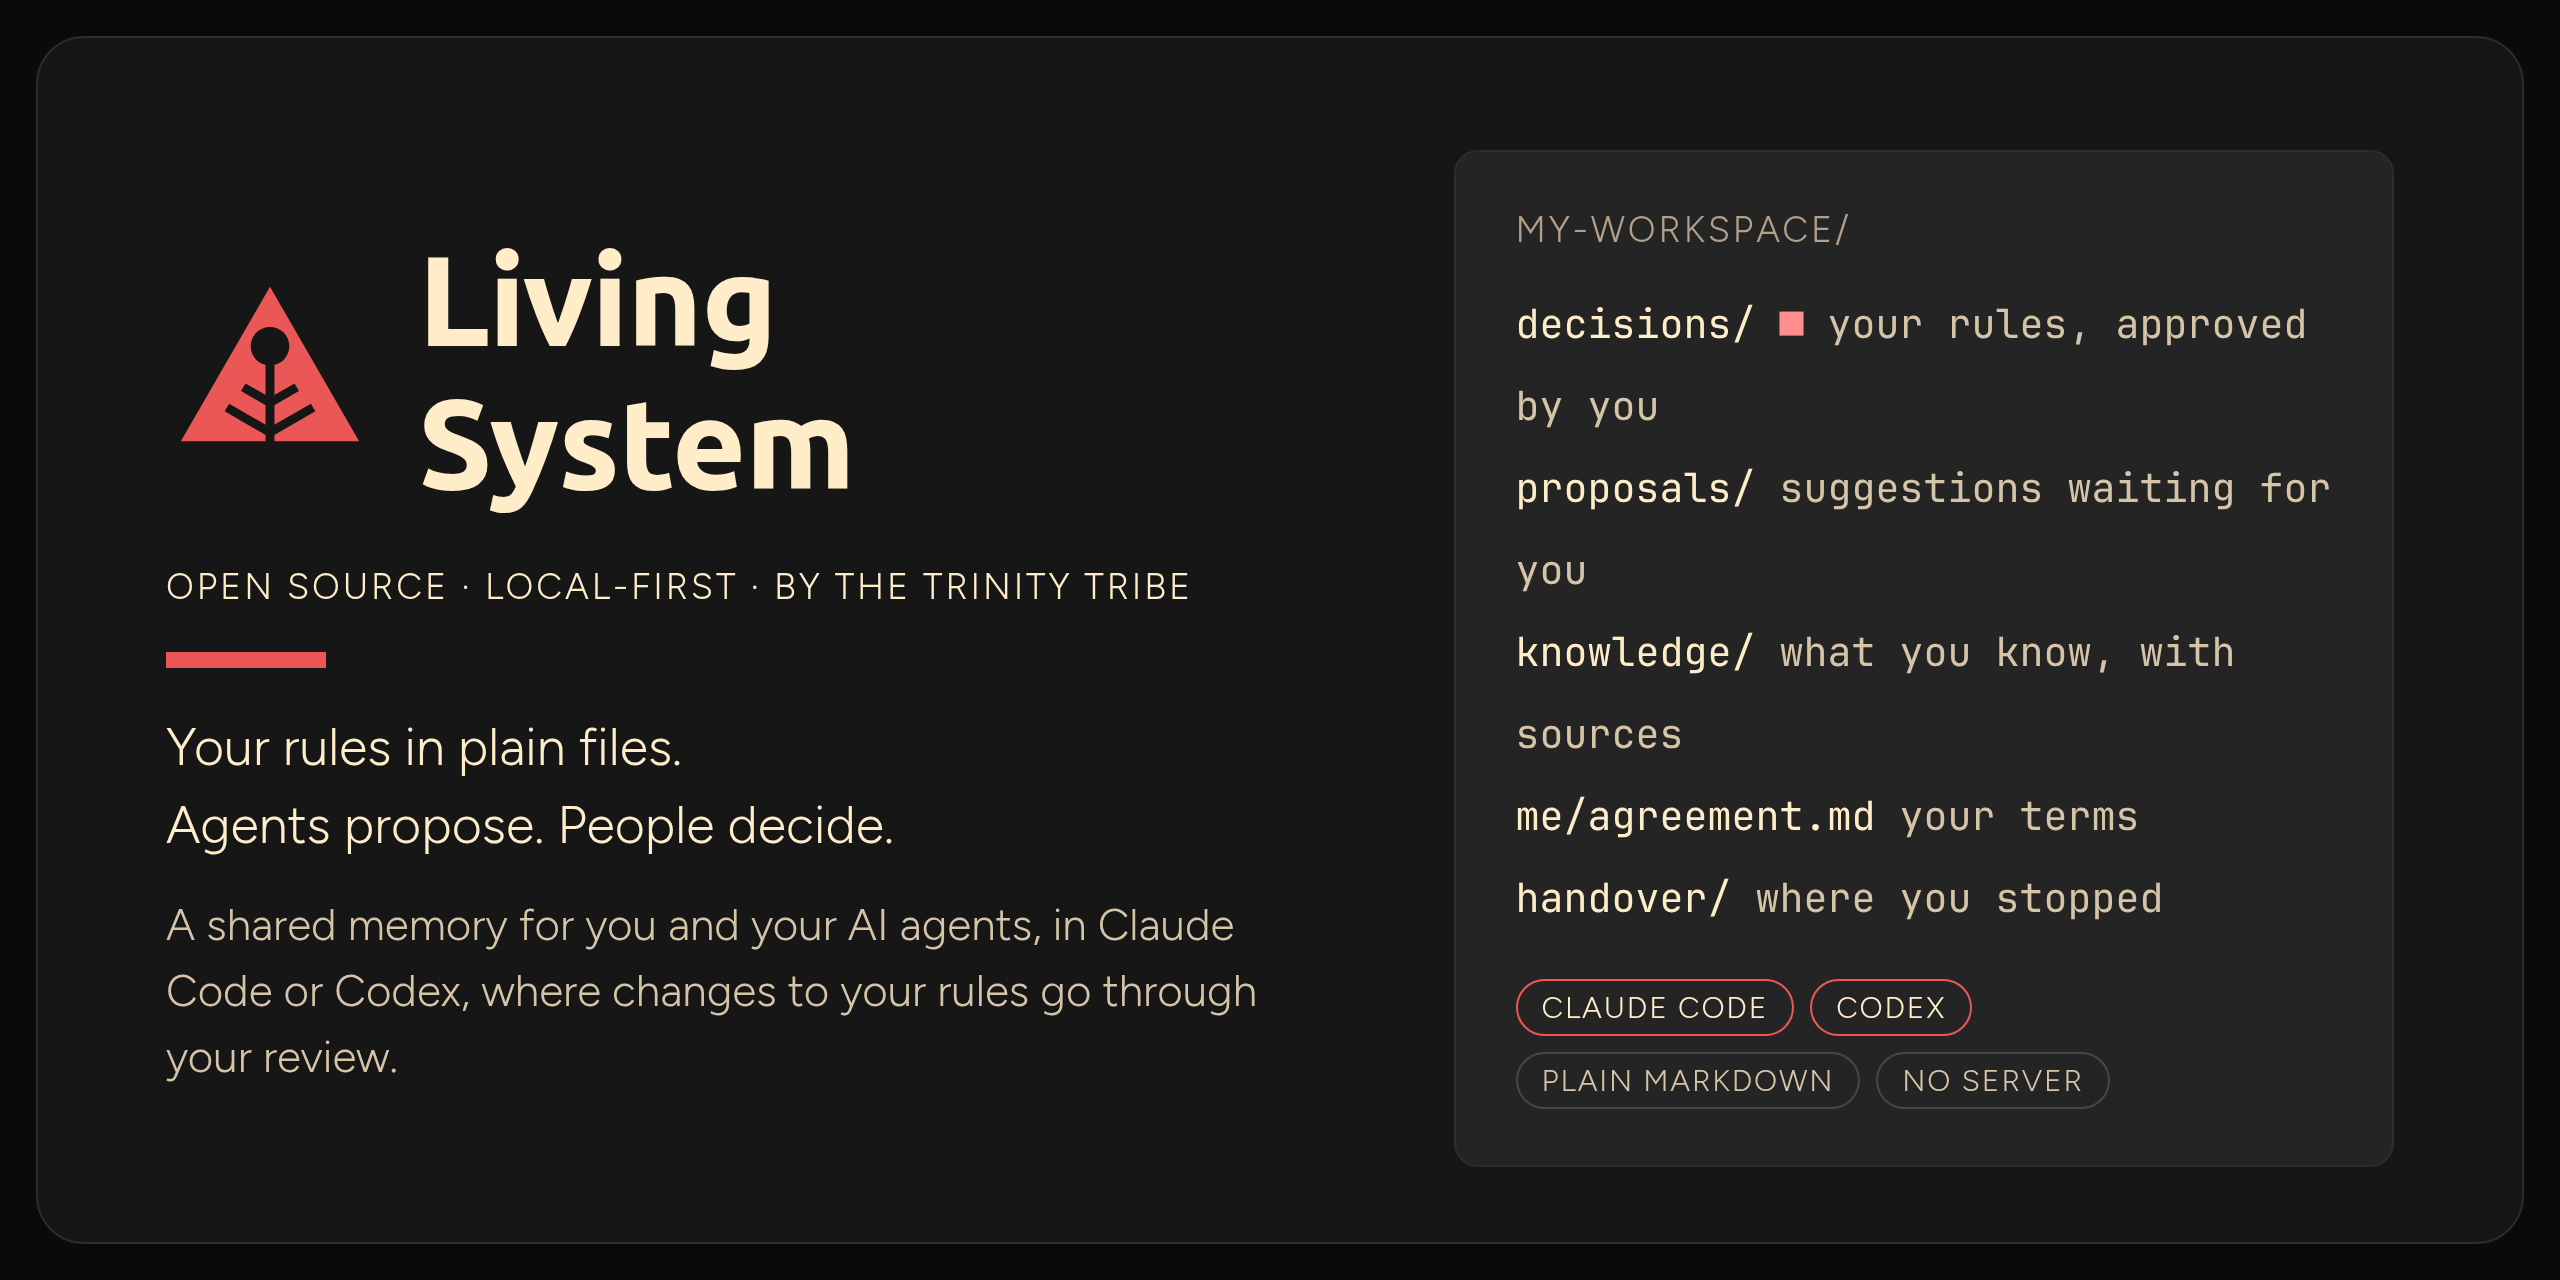
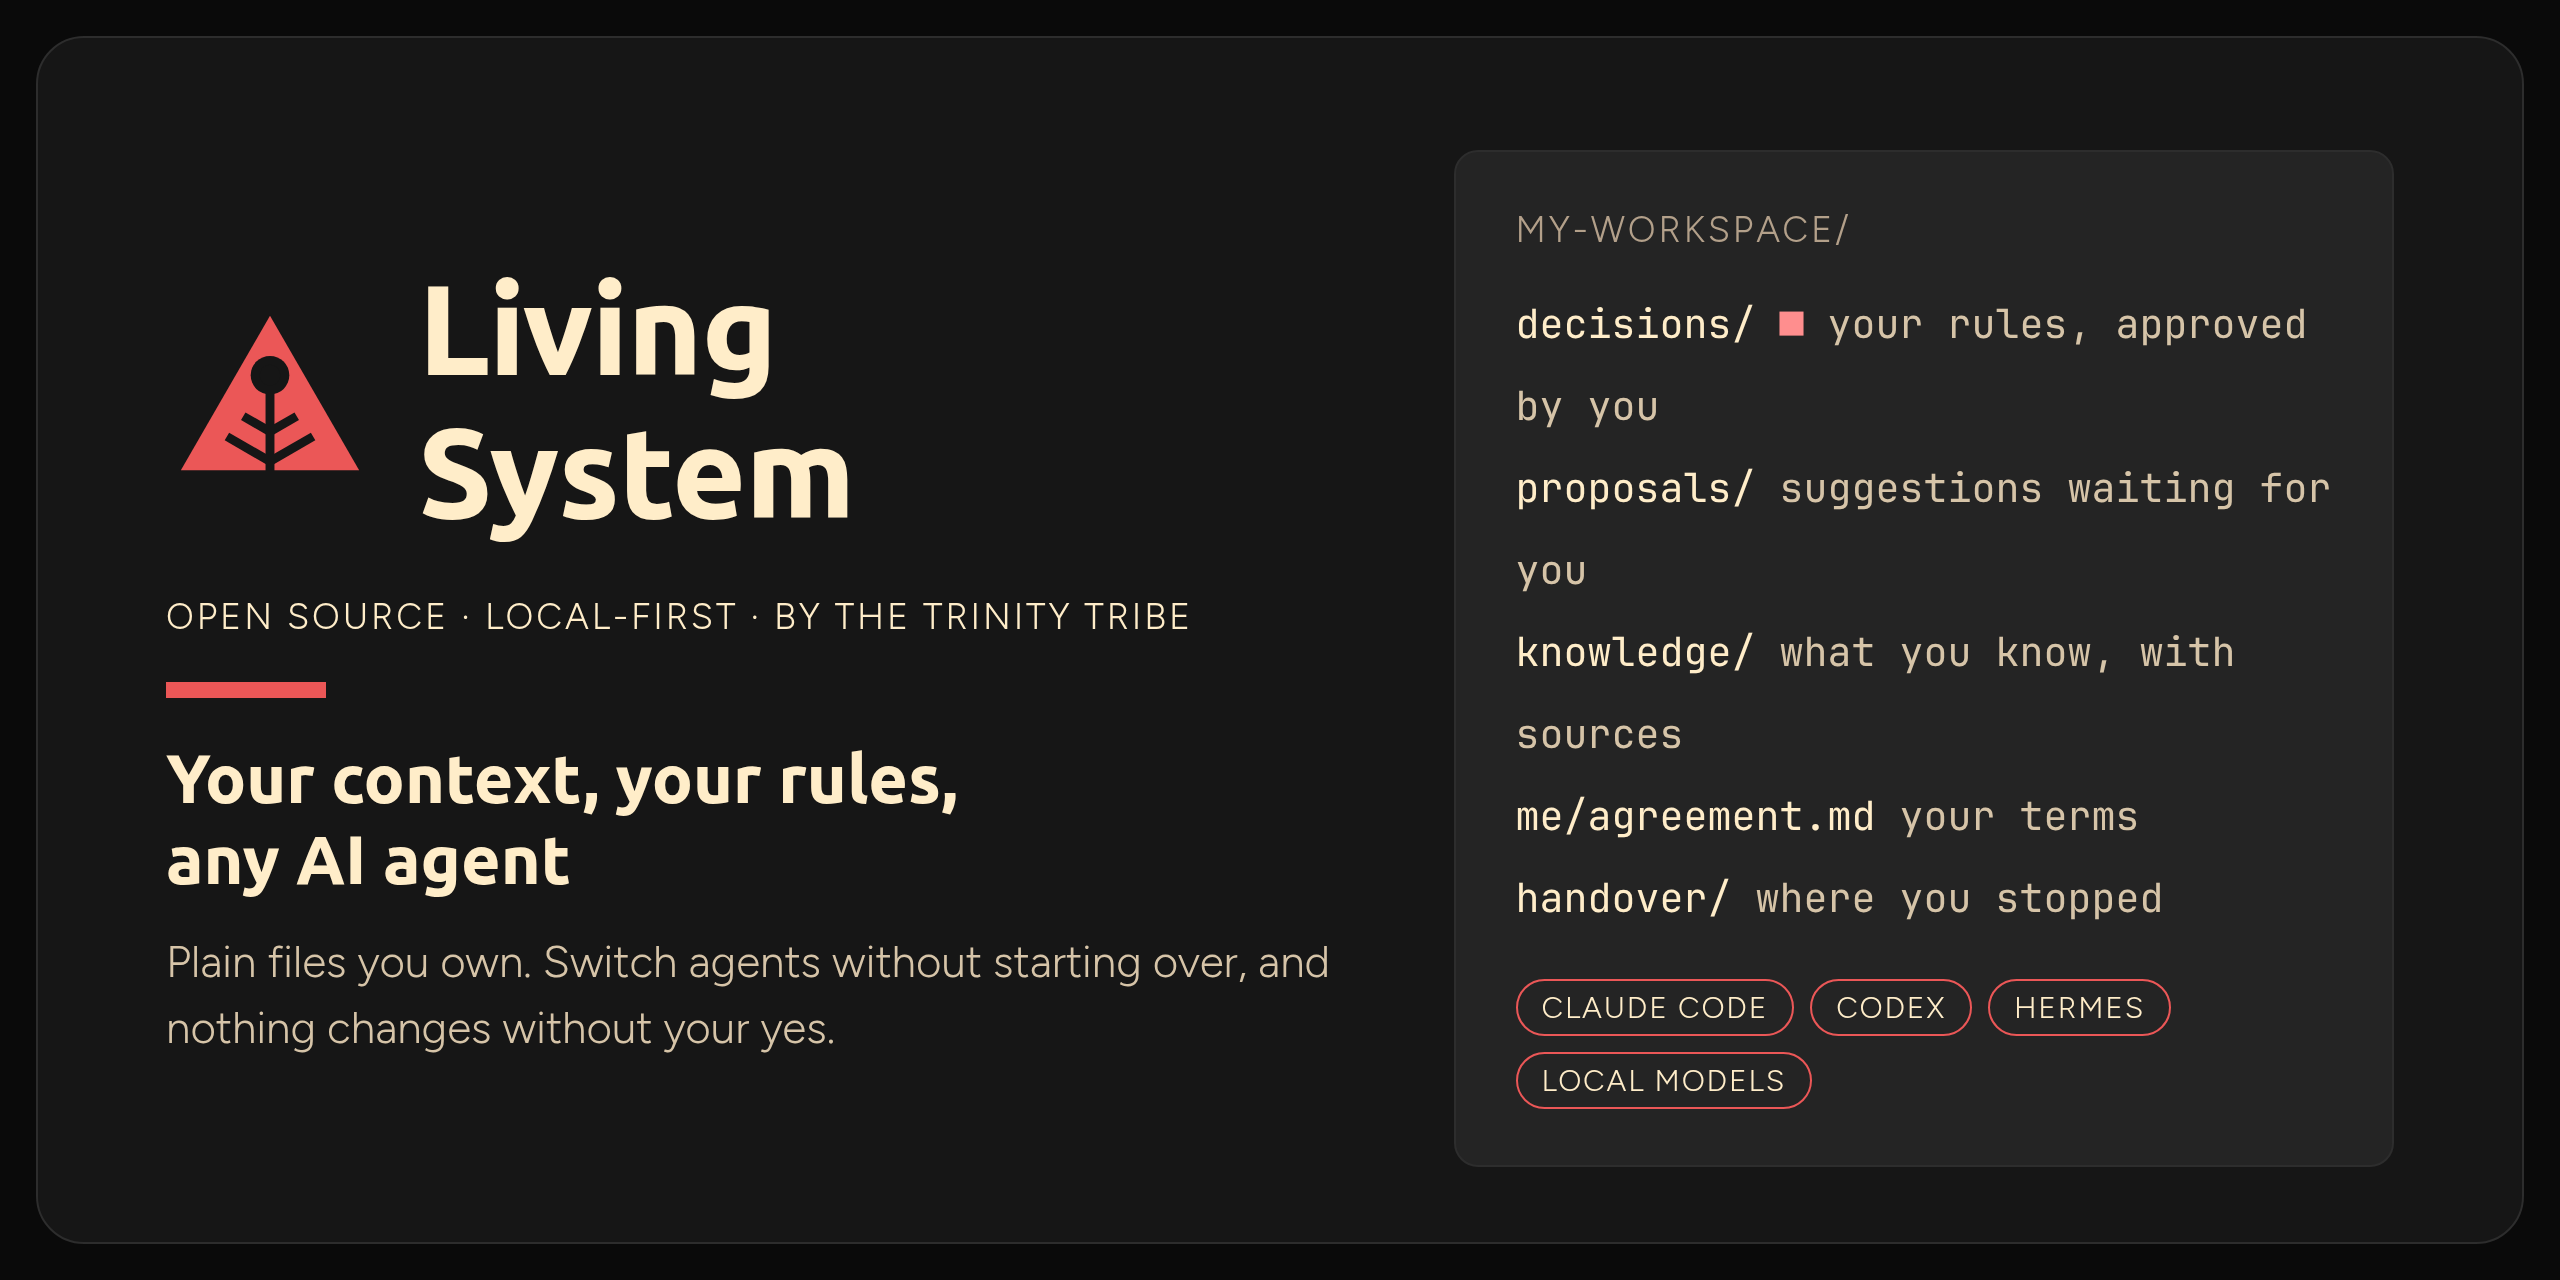
brand: social preview image with the new headline

Changed region(s): [[0.0625, 0.1875, 0.5, 0.8438], [0.5938, 0.8125, 0.7188, 0.875], [0.75, 0.7812, 0.8438, 0.875]]

diff --git a/brand/README.md b/brand/README.md
@@ -36,7 +36,7 @@ Headings do not end in a full stop. Every section heading carries a short red ru
 
 | File | Shows |
 | --- | --- |
-| [`images/hero.png`](images/hero.png) | Name, promise and a workspace at a glance. 1280 by 640, also suitable as a social preview |
+| [`images/hero.png`](images/hero.png) | Name, the headline "Your context, your rules, any AI agent" and a workspace at a glance. 1280 by 640 (2560 by 1280 file), used as the GitHub social preview |
 | [`images/readme/`](images/readme/) | The README banner and three diagrams (how a rule changes, delegation levels, connected workspaces), each in a dark and a light variant on a transparent ground |
 | [`images/mark-lockup.png`](images/mark-lockup.png) | Mark and name together |
 | [`images/demo.gif`](images/demo.gif) | A 25-second loop of real output: setup, a proposal, approval, two blocked shortcuts, proof nothing changed |
